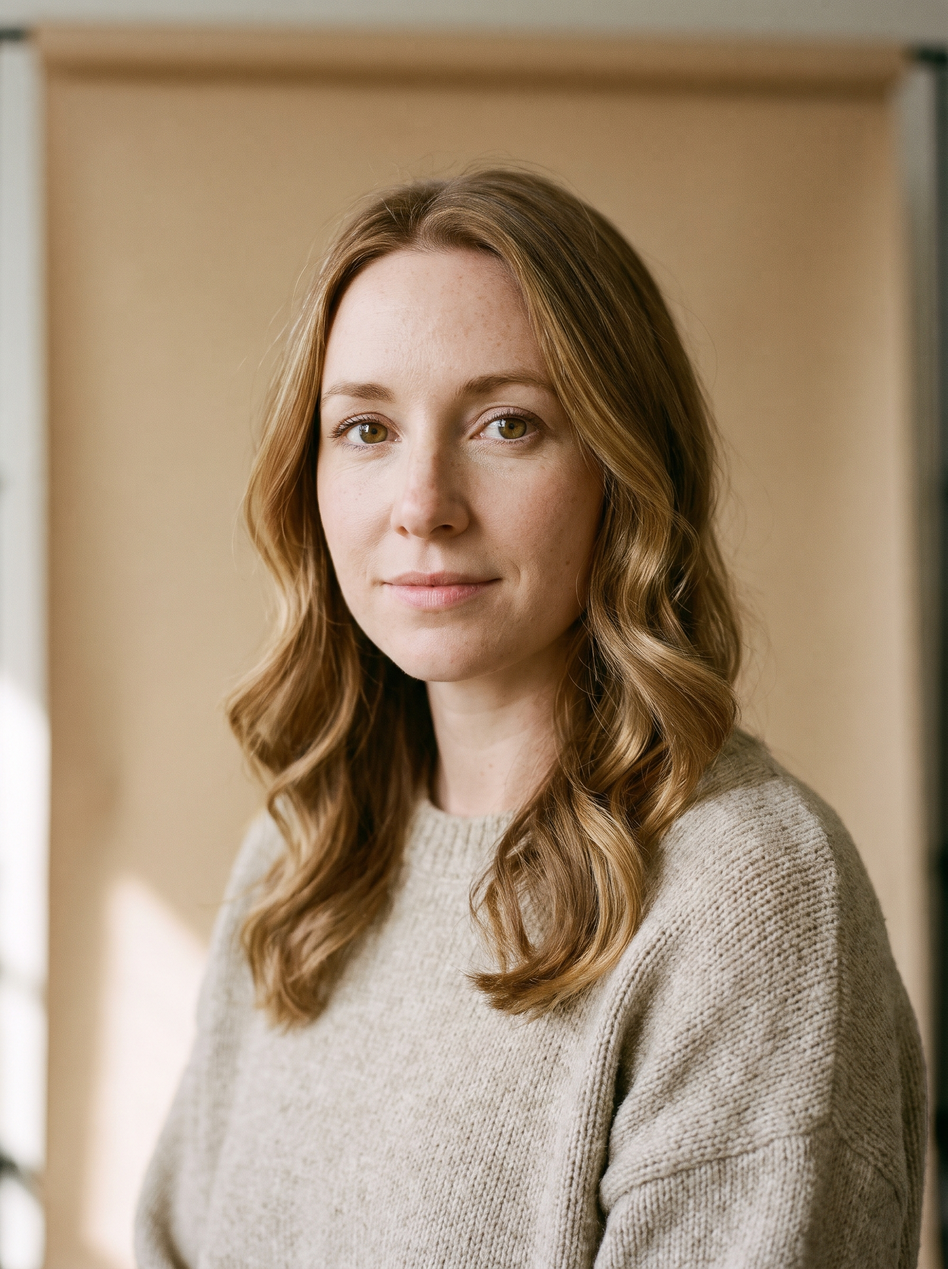
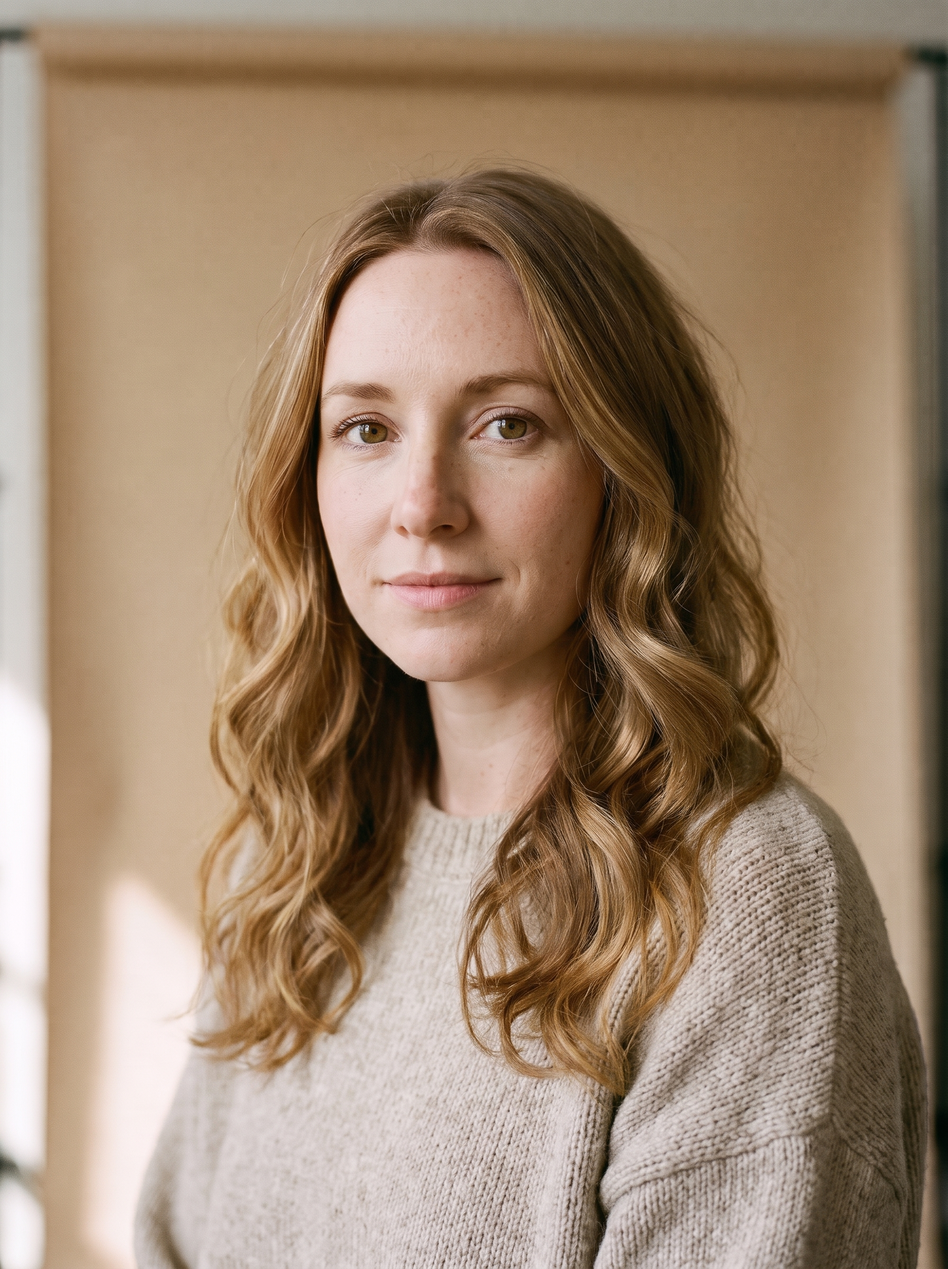
Retratos: modelo das Ondas com ondas bem marcadas; 'Bem definido' passa a 'Caracóis fechados'
Claude-Session: https://claude.ai/code/session_01H9RPN1CBtaHMsUDF5qg26C

diff --git a/media/guia.html b/media/guia.html
@@ -210,7 +210,7 @@ const SECOES = [
   {id:"07-retrato-2", tipo:"img", dim:"1080×1440 · 3:4", titulo:"Caracóis · um pouco mais", desc:"Homem de caracóis 3A-3B, vista a três quartos por trás, camisa creme.",
    s:[3,4], pess:[[50,40,24]],
    prompt:`Editorial campaign photograph for a premium wavy and curly-hair brand, shot on 35mm film with a medium-format feel, muted earthy palette (sand, olive, brown, cream). Studio portrait on a seamless warm sand paper backdrop, soft diffused key light from the side, subtle natural shadow. A Mediterranean man around thirty with medium-length dark hair in springy, clearly defined ringlet curls (type 3A-3B), soft and voluminous with natural shine, curls separated and bouncy, no frizz halo, no wet look, no crunch. Short trimmed beard. Framed from the chest up, three-quarter view from slightly behind and to the side, head turned looking past the camera, so the curls on top, side and nape are the clear centre of the picture. Cream cotton shirt. Real skin texture with pores, no beauty retouching, calm confident expression. No text, no logos, no watermark, no plastic skin.`},
-  {id:"07-retrato-3", tipo:"img", dim:"1080×1440 · 3:4", titulo:"Bem definido · mais creme", desc:"Mulher colombiana com caracóis 3C bem definidos e volume redondo, malha terracota.",
+  {id:"07-retrato-3", tipo:"img", dim:"1080×1440 · 3:4", titulo:"Caracóis fechados · mais creme", desc:"Mulher colombiana com caracóis 3C bem definidos e volume redondo, malha terracota.",
    s:[3,4], pess:[[50,40,24]],
    prompt:`Editorial campaign photograph for a premium wavy and curly-hair brand, shot on 35mm film with a medium-format feel, muted earthy palette (sand, olive, brown, cream, a small terracotta accent). Studio portrait on a seamless warm sand paper backdrop, soft diffused key light from the side, subtle natural shadow. A Colombian woman in her late twenties with brown skin and a big, rounded head of tight, highly defined coily curls (type 3C), each small curl clearly formed and glossy, voluminous shape, no frizz halo, no wet look, no crunch. Framed from the chest up, body angled slightly, face in three-quarter view looking down and to the side, so the full rounded silhouette of the curls is the clear centre of the picture. Rust terracotta knit top. Real skin texture with pores, no beauty retouching, calm expression. No text, no logos, no watermark, no plastic skin.`}
  ]},
